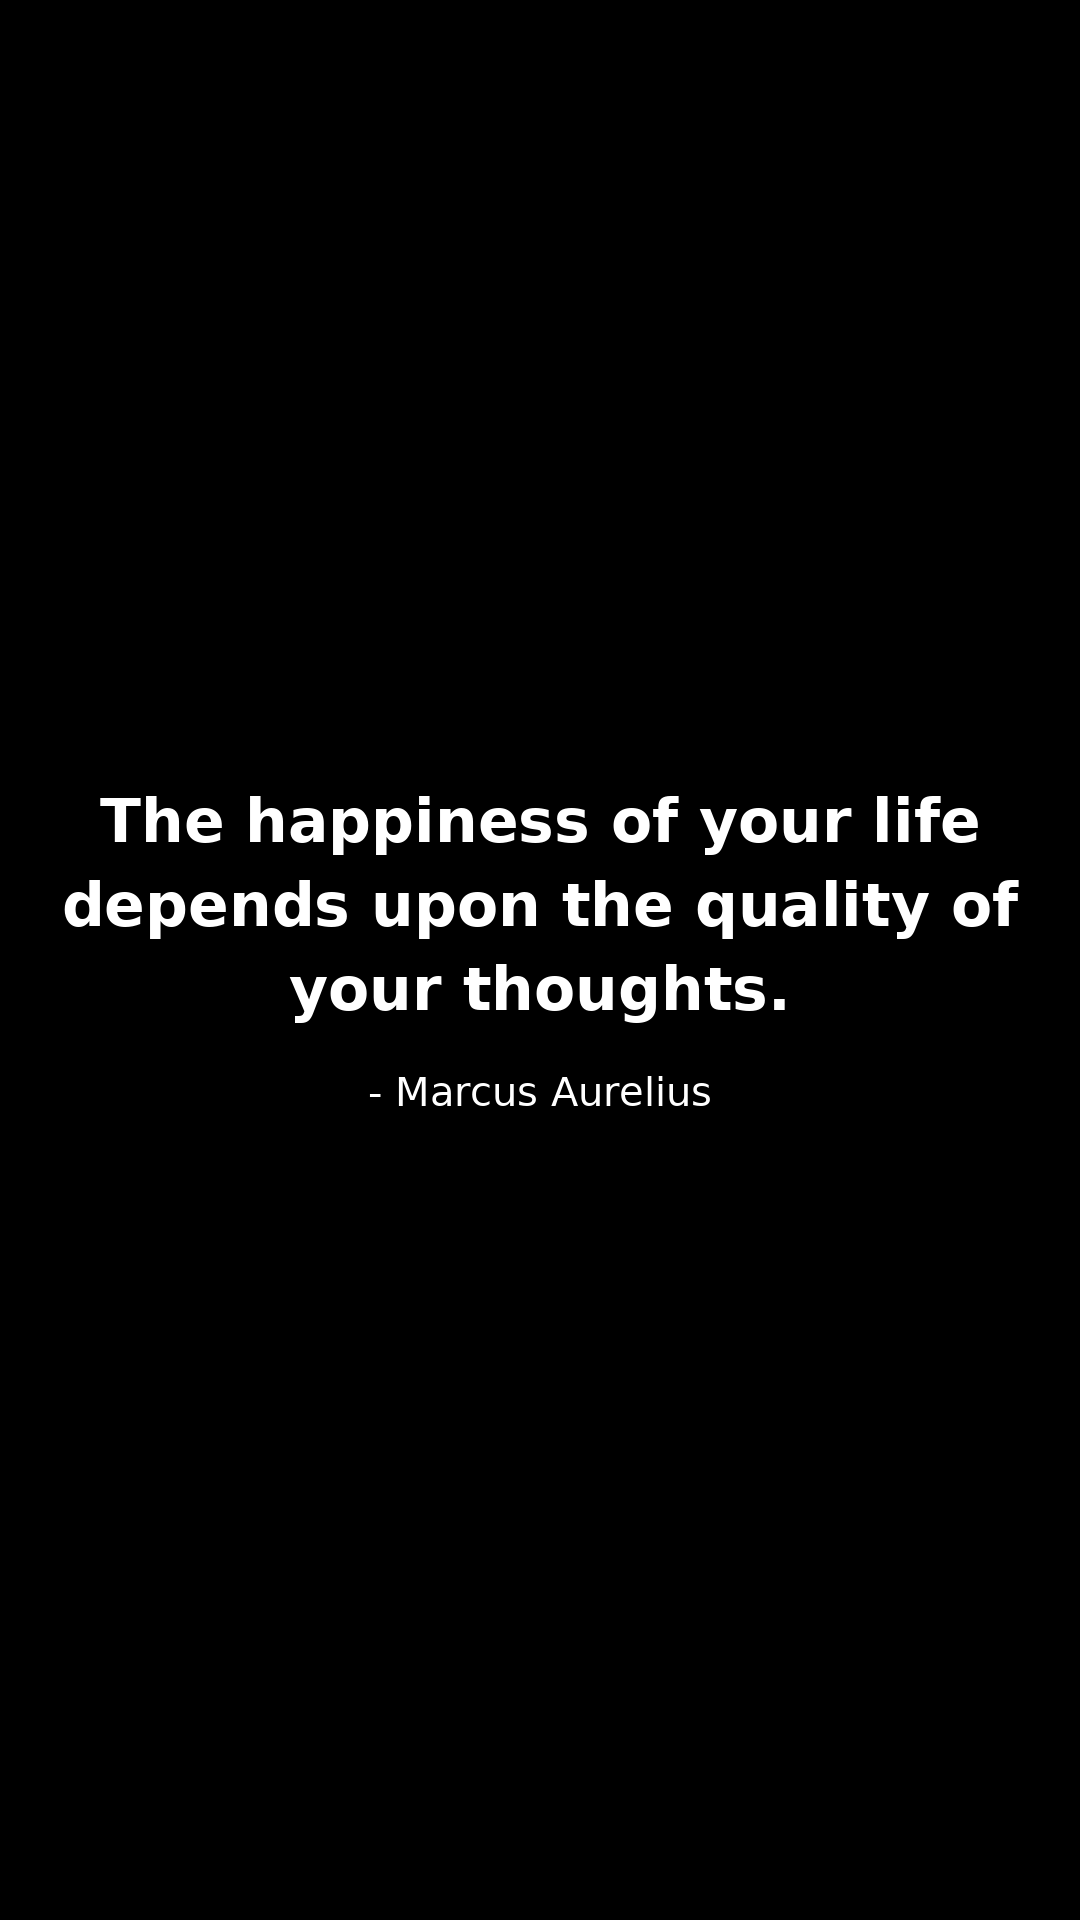
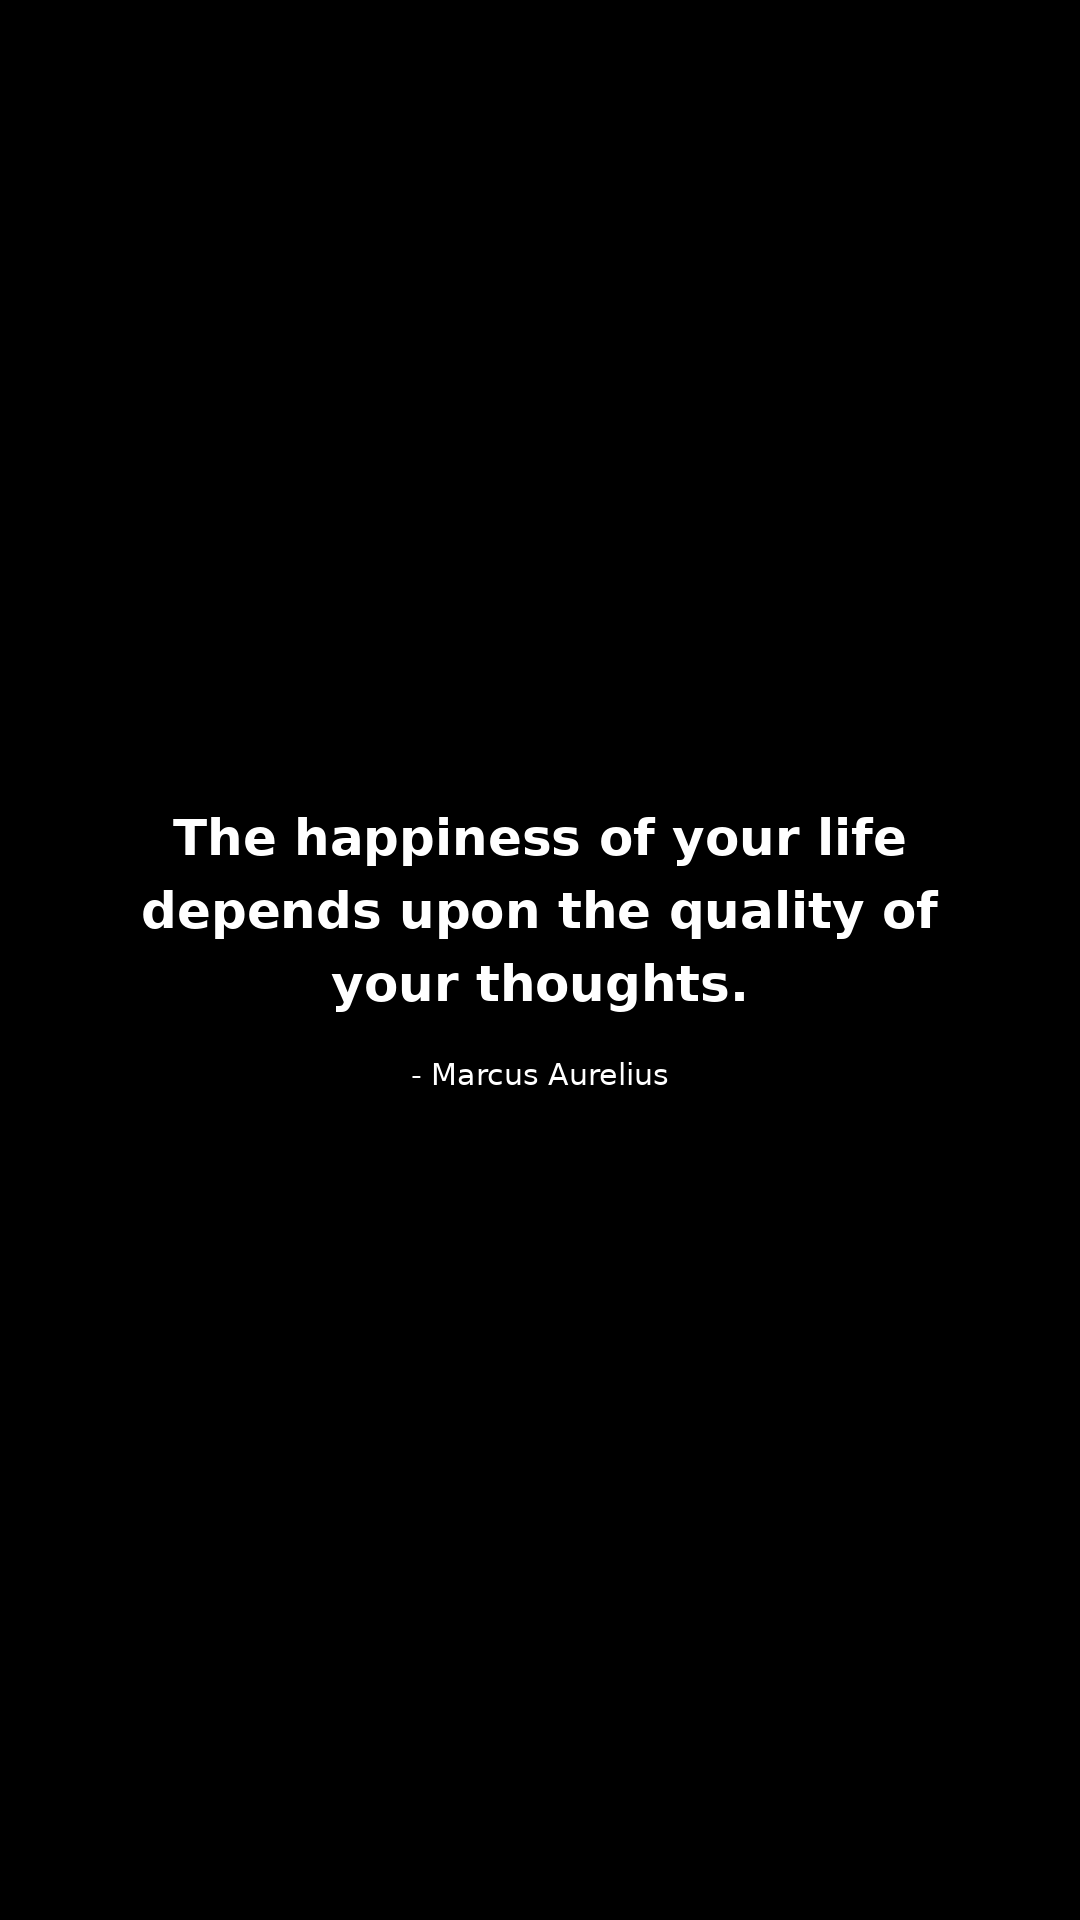
margins added to fit wallpaper on iPhone

Changed region(s): [[0.0611, 0.4062, 0.9472, 0.5938]]

diff --git a/generate_wallpaper.py b/generate_wallpaper.py
@@ -12,9 +12,9 @@ WIDTH = 1080
 HEIGHT = 1920
 BG_COLOR = (0, 0, 0)
 TEXT_COLOR = (255, 255, 255)
-FONT_SIZE = 60
-AUTHOR_FONT_SIZE = 40
-MARGIN = 100
+FONT_SIZE = 50
+AUTHOR_FONT_SIZE = 30
+MARGIN = 180
 
 def get_quote_of_the_day():
     with open(QUOTES_FILE, 'r') as f:
